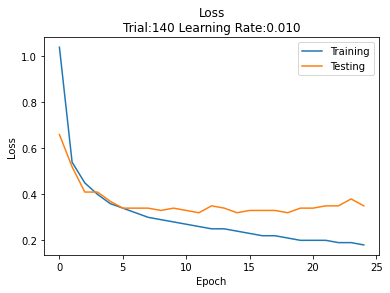
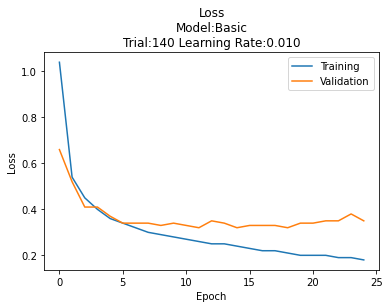
More Docstring formatting

diff --git a/PythonCodes/Accessory Codes/DataPlotter.py b/PythonCodes/Accessory Codes/DataPlotter.py
@@ -6,22 +6,26 @@ class DataPlotter:
         self.fileNames = fileNames.copy()
         print("File is " + fileNames[0])
         self.data = self.createData(fileNames)
-    
-#Sets the number of files. Was created then lost its need. Still here just in case though
-    def setNumFiles(fileNames):
-        num = 0
-        for names in fileNames:
-            num += 1
-        return num
 
 #Reads all of the data from the file names, then returns an array of a custom "data" object
-    def createData(self, fileNames):
+    def createData(self):
+        """
+        Function
+        -------
+        Finds all the accuracies and losses for each trial using the file names
+
+        Returns
+        -------
+        d : array[DataSet]
+            array of each trials dataset
+
+        """
         d = []        
         
         #Looks at every file in the name list
-        for name in fileNames:
+        for name in self.fileNames:
             #variables for the "data" object
-            trial, epochs, lr, trainLoss, testLoss, acc, model = -1, 0, 0.0, [], [], [], "Basic"
+            trial, epochs, lr, trainLoss, valLoss, acc, model = -1, 0, 0.0, [], [], [], "Basic"
             f = open(name, "r")
             for line in f:
                 #Each line is split up into pieces of data separated by tabs
@@ -43,7 +47,7 @@ class DataPlotter:
                     elif piece[0] == "TrainingLoss":
                         trainLoss.append(float(piece[1]))
                     elif piece[0] == "ValidLoss":
-                        testLoss.append(float(piece[1]))
+                        valLoss.append(float(piece[1]))
                     elif piece[0] == "Accuracy":
                         acc.append(float(piece[1]))
                     elif piece[0] == "Accuaracy":
@@ -53,17 +57,32 @@ class DataPlotter:
                         
                         
             #Adds the data object into the array                                            
-            d.append(DataSet(trial, epochs, lr, trainLoss, testLoss, acc, model))
+            d.append(DataSet(trial, epochs, lr, trainLoss, valLoss, acc, model))
          
         #returns all of the data
         return d
     
 #Plots the loss of each trial
     def plotLoss(self, id):
+        """
+        Function
+        ----------
+        Plots the training and validation loss at each epoch of a specific trial
+
+        Parameters
+        ----------
+        id : int
+            The id of the trial. The function looks through all datasets until it finds the one with the correct id.
+
+        Returns
+        -------
+        None.
+
+        """
         for trial in self.data:
             if(trial.trial==id):
                 plt.plot(trial.trainLoss, label = "Training")
-                plt.plot(trial.testLoss, label = "Testing")
+                plt.plot(trial.valLoss, label = "Validation")
                 plt.title("Loss\nModel:%s\nTrial:%d Learning Rate:%.3f"%(trial.model, trial.trial, trial.lr))
         plt.legend()
         plt.xlabel("Epoch")
@@ -72,6 +91,16 @@ class DataPlotter:
                 
 #Plots the accuracy of each trial
     def plotAcc(self):
+        """
+        Function
+        -------
+        Plots the accuracy at each epoch for each trial in the plotter
+
+        Returns
+        -------
+        None.
+
+        """
         for trial in self.data:
             name = "Model:%s Trial:%d LR:%.3f Epochs:%d"%(trial.model, trial.trial, trial.lr, trial.epochs)
             plt.plot(trial.acc, label = name)
@@ -82,12 +111,39 @@ class DataPlotter:
         plt.show()    
             
 class DataSet:
-    def __init__(self, trial, epochs, lr, trainLoss, testLoss, acc, model):
+    def __init__(self, trial, epochs, lr, trainLoss, valLoss, acc, model):
+        """
+        Function
+        ----------
+        Creates a data set, which is a list of the accuracy, training loss, and validation loss of a trial at each epoch
+
+        Parameters
+        ----------
+        trial : int
+            Which trial number it is
+        epochs : int
+            Number of epochs the trial was run for
+        lr : double
+            learning rate the trial had
+        trainLoss : array[double]
+            array of training loss at each epoch
+        valLoss : array[double]
+            array of validation loss at each epoch
+        acc : array[double]
+            array of accuracy at each epoch
+        model : string
+            what model the trial was run using
+
+        Returns
+        -------
+        None.
+
+        """
         self.trial = trial
         self.epochs = epochs
         self.lr = lr
         self.trainLoss = trainLoss.copy()
-        self.testLoss = testLoss.copy()
+        self.valLoss = valLoss.copy()
         self.acc = acc.copy()
         self.model = model
         

diff --git a/PythonCodes/NNSkeletonCode.py b/PythonCodes/NNSkeletonCode.py
@@ -15,7 +15,7 @@ def main():
     gpu_available = torch.cuda.is_available()
     print(f"Gpu Available? {gpu_available}")
     print("Using torch",torch.__version__)
-    BATCH_SIZE = 1
+    BATCH_SIZE = 64
     ## transformations
     transform = transforms.Compose([transforms.ToTensor()])
     
@@ -23,7 +23,7 @@ def main():
     ## download and load training dataset
     # This is the dataset that will be using 'root = where the dataset is', 
     #train if the data is pretrained, download if it is downloaded
-    trainset = torchvision.datasets.FashionMNIST(root='./data', train=True, download=False, transform=transform)
+    trainset = torchvision.datasets.FashionMNIST(root='../data', train=True, download=False, transform=transform)
     
     #DataLoader(What is the dataset, what is the batch size, 
     #if you would like to shuffle the data(optional), num of cpu cores(optional))

diff --git a/PythonCodes/Accessory Codes/Plot.py b/PythonCodes/Accessory Codes/Plot.py
@@ -35,19 +35,19 @@ files = [""] * numTrials
 #     files[i] = filePrefix + "Trial%d.txt"%(i+150)
 
 # Data from basic, linear, and cnn models: LR: 0.01, Epochs: 25
-# files[0] = filePrefix + "Trial140.txt"
+files[0] = filePrefix + "Trial140.txt"
 # files[1] = filePrefix + "Trial150.txt"
 # files[2] = filePrefix + "Trial162.txt"
 
 # Data from a specific trial of 150 epochs
-files[0] = filePrefix + "Trial165.txt"
+# files[0] = filePrefix + "Trial165.txt"
     
 
 print("Loading Plotter")
 
 Plot = DataPlotter(files)
 
-Plot.plotLoss(165)
+Plot.plotLoss(140)
 
 Plot.plotAcc()
 
